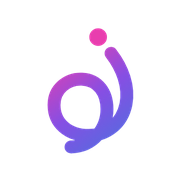
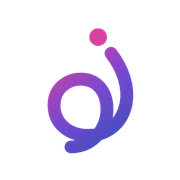
Consistent design system across all pages: grounded palette with cobalt anchor, About on the system, shared header, no sideways scroll
Claude-Session: https://claude.ai/code/session_015vF3fkpLrtYDnGXEysZJYn

Changed region(s): [[0.3611, 0.4722, 0.75, 0.8611]]

diff --git a/about.html b/about.html
@@ -5,46 +5,50 @@
   <meta name="robots" content="noindex, nofollow">
   <meta name="viewport" content="width=device-width, initial-scale=1">
   <title>About — June Yang</title>
-  <link rel="icon" href="favicon.ico?v=5" sizes="any">
-  <link rel="icon" type="image/svg+xml" href="favicon.svg?v=5">
-  <link rel="icon" type="image/png" href="favicon-32.png?v=5">
-  <link rel="apple-touch-icon" href="apple-touch-icon.png?v=4">
+  <link rel="icon" href="favicon.ico?v=6" sizes="any">
+  <link rel="icon" type="image/svg+xml" href="favicon.svg?v=6">
+  <link rel="icon" type="image/png" href="favicon-32.png?v=6">
+  <link rel="apple-touch-icon" href="apple-touch-icon.png?v=5">
   <meta name="description" content="June Yang is a junior at Carnegie Mellon studying Communication Design and Human-Computer Interaction, working across UX design, product design and brand marketing.">
   <link rel="preconnect" href="https://fonts.googleapis.com">
   <link rel="preconnect" href="https://fonts.gstatic.com" crossorigin>
-  <link href="https://fonts.googleapis.com/css2?family=Hedvig+Letters+Serif:opsz@12..24&family=Inter:ital,wght@0,400;0,500;1,400&display=swap" rel="stylesheet">
-  <link rel="stylesheet" href="home.css?v=h9m">
+  <link href="https://fonts.googleapis.com/css2?family=DM+Mono:wght@400;500&family=Figtree:wght@400;500;600&display=swap" rel="stylesheet">
+  <link rel="stylesheet" href="ds.css?v=18">
+  <link rel="stylesheet" href="home.css?v=ds32">
   <style>
-    /* About page: same header, type and spacing tokens as the home page (home.css) */
+    /* About page: same header, type and spacing tokens as the home page (ds.css + home.css) */
     .about { margin-top: 200px; padding-left: 3px; display: grid; grid-template-columns: 520px minmax(0, 680px); justify-content: center; gap: 96px; align-items: center; }
+    .about .intro__title .ds-gradient { display: inline; }   /* keep "June" on the same line */
     .about__photo { width: 100%; height: auto; border-radius: 16px; display: block; order: -1; }
-    .about__lede { margin-top: 13px; font-size: 18px; line-height: 28px; color: var(--black-60); }
+    .about__lede { margin-top: 13px; font-size: 18px; line-height: 28px; color: var(--muted); }
     .about__body { margin-top: 56px; display: flex; flex-direction: column; gap: 24px; }
-    .about__body p { font-size: 18px; line-height: 27px; }
+    .about__body p { font-size: 18px; line-height: 27px; color: var(--ink-2); text-wrap: pretty; }
     .exp, .connect { max-width: 1296px; margin-left: auto; margin-right: auto; }  /* same width as the photo + intro block above */
     .exp { margin-top: 160px; }
-    .exp__title { font-family: var(--font-serif); font-size: 26px; line-height: 1.3; }   /* same size as section headings on the project pages */
-    .exp__list { margin: 32px 0 0; padding: 0; list-style: none; border-top: 1px solid #e6e6e6; }
-    .exp__item { display: grid; grid-template-columns: 380px 1fr auto; align-items: center; gap: 24px; padding: 24px 0; border-bottom: 1px solid #e6e6e6; }
-    .exp__org { font-size: 20px; line-height: 1.3; }
-    .exp__org span { display: block; margin-top: 6px; font-size: 15px; line-height: 1.3; color: var(--black-60); }
-    .exp__role { font-size: 18px; color: var(--black-60); }
-    .exp__date { font-size: 15px; padding: 6px 14px; border-radius: 999px; background: var(--surface); white-space: nowrap; }
+    .exp__title { font-family: var(--font-sans); font-size: 32px; line-height: 1.2; font-weight: 600; letter-spacing: -0.02em; color: var(--ink); }   /* same as section headings on the project pages */
+    .exp__list { margin: 32px 0 0; padding: 0; list-style: none; border-top: 1px solid var(--line); }
+    .exp__item { display: grid; grid-template-columns: 380px 1fr auto; align-items: center; gap: 24px; padding: 24px 0; border-bottom: 1px solid var(--line); }
+    .exp__org { font-size: 20px; line-height: 1.3; font-weight: 600; letter-spacing: -0.01em; color: var(--ink); }
+    .exp__org span { display: block; margin-top: 6px; font-size: 15px; line-height: 1.3; font-weight: 400; letter-spacing: 0; color: var(--muted); }
+    .exp__role { font-size: 18px; color: var(--ink-2); }
+    .exp__date { font-family: var(--font-mono); font-size: 13px; letter-spacing: .06em; text-transform: uppercase; color: var(--muted); padding: 7px 13px 6px; border-radius: 999px; background: var(--surface); white-space: nowrap; }
     @media (max-width: 760px) {
       .exp { margin-top: 96px; }
       .exp__title { font-size: 26px; }
+      .exp__date { font-size: 11px; }
       .exp__item { grid-template-columns: 1fr; gap: 4px; }
         .exp__org { font-size: 18px; }
       .exp__role { font-size: 16px; }
       .exp__date { justify-self: start; font-size: 14px; margin-top: 4px; }
     }
     .connect { margin-top: 160px; }
-    .connect__list { margin: 32px 0 0; padding: 0; list-style: none; border-top: 1px solid #e6e6e6; }
-    .connect__item { border-bottom: 1px solid #e6e6e6; }
-    .connect__item a { display: grid; grid-template-columns: 380px 1fr auto; gap: 24px; align-items: center; padding: 24px 0; font-size: 20px; }
-    .connect__item a span:nth-child(2) { font-size: 18px; color: var(--black-60); }
-    .connect__item a span:last-child { font-size: 20px; color: var(--black-60); transition: transform .2s; }
-    .connect__item a:hover span:last-child { transform: translateX(4px); color: var(--black); }
+    .connect__list { margin: 32px 0 0; padding: 0; list-style: none; border-top: 1px solid var(--line); }
+    .connect__item { border-bottom: 1px solid var(--line); }
+    .connect__item a { display: grid; grid-template-columns: 380px 1fr auto; gap: 24px; align-items: center; padding: 24px 0; font-size: 20px; font-weight: 600; letter-spacing: -0.01em; color: var(--ink); text-decoration: none; }
+    .connect__item a span:nth-child(2) { font-size: 18px; font-weight: 400; letter-spacing: 0; color: var(--ink-2); }
+    .connect__item a span:last-child { font-size: 20px; font-weight: 400; color: var(--muted); transition: transform .2s, color .2s; }
+    .connect__item a:hover span:last-child { transform: translate(3px, -3px); color: var(--link); }
+    .connect__item a:hover span:nth-child(2) { color: var(--link); }
     @media (max-width: 760px) {
       .connect { margin-top: 96px; }
       .connect__item a { grid-template-columns: 1fr auto; gap: 4px 16px; font-size: 18px; }
@@ -73,7 +77,7 @@
 </head>
 <body>
   <header class="site-header">
-    <a class="site-logo" href="index.html"><img src="logo-j.svg?v=2" width="24" height="34" alt="June Yang (home)"></a>
+    <a class="site-logo" href="index.html"><img src="logo-j.svg?v=3" width="24" height="34" alt="June Yang (home)"></a>
     <nav class="site-nav" aria-label="Main">
       <a href="index.html">Work</a>
       <a href="about.html" aria-current="page">About</a>
@@ -83,7 +87,7 @@
   <main class="home">
     <section class="about" aria-label="About June">
       <div>
-      <h1 class="intro__title">Hi, I’m June!</h1>
+      <h1 class="intro__title">Hi, I’m <span class="ds-gradient">June</span>!</h1>
       <p class="about__lede">I love creating things that bring joy to people :)</p>
       <div class="about__body">
         <p>I’m interested in how design can solve real problems and make everyday experiences better. I especially enjoy putting myself in other people’s shoes, understanding what they need, and coming up with creative ways to make things easier and more enjoyable.</p>

diff --git a/ds.css b/ds.css
@@ -20,21 +20,23 @@
   /* Neutrals */
   --ink:        #161616;  /* headings, body */
   --ink-2:      #3d3d3d;  /* long-form body */
-  --muted:      #7a7a7a;  /* supporting text, labels */
+  --muted:      #6b6b6b;  /* supporting text, labels (5.3:1 on white) */
   --line:       #dadada;  /* hairlines (a touch darker so card borders and dividers read clearly) */
-  --surface:    #f5f5f7;  /* image wells, chips */
+  --surface:    #f4f4f4;  /* image panels, chips (matches the grey baked into exported figures) */
   --bg:         #ffffff;
 
   /* Roles */
-  --link:       var(--pink-600);
-  --link-hover: var(--pink-700);
+  --anchor:     #33449e;  /* deep cobalt: the grounding color for links and active states (8.5:1) */
+  --anchor-700: #283680;
+  --link:       var(--anchor);
+  --link-hover: var(--anchor-700);
   --tag-bg:     var(--pink-50);
   --tag-fg:     var(--pink-600);
   --focus:      var(--pink-500);
   /* headline gradient: clean pink into violet and blue */
-  --gradient:   linear-gradient(90deg, #e83eae, #864fe3 52%, #536cdf);   /* between the original and the lighter pass: depth without glare; pink 3.7:1 for large text */
+  --gradient:   linear-gradient(90deg, #d9419f, #7448cf 52%, #3b4fb8);   /* grounded: calmer pink and violet into a deeper cobalt; pink 4.0:1 for large text */
   /* calmer version for hover states like project titles: lighter and clean, not vivid (≥3.6:1) */
-  --gradient-title: linear-gradient(90deg, #d655b0, #8b66e6 52%, #6380e6);
+  --gradient-title: linear-gradient(90deg, #d4529f, #7d57d0 52%, #4a5ebf);   /* card titles on hover: the grounded gradient, a step lighter */
   /* light pastel version for the selected-card ring */
   --gradient-ring: linear-gradient(90deg, #ef9ad6, #b79cf6 52%, #97aef5);
   /* soft pastel version for quiet details like tag outlines */
@@ -56,7 +58,7 @@
 /* Small monospace section label, e.g. EXPERIENCE / SELECTED WORK */
 .ds-label {
   font-family: var(--font-mono);
-  font-size: 14px;
+  font-size: 13px;
   font-weight: 400;
   letter-spacing: 0.08em;
   text-transform: uppercase;
@@ -77,3 +79,5 @@
 .cursor-circle.is-hover.is-press::before { transform: scale(2.2); transition-duration: .15s; }
 @media (prefers-reduced-motion: reduce) { .cursor-circle::before { transition: opacity .2s ease; } }
 
+/* the header's white band is intentionally wider than the page; never let it cause sideways scrolling */
+html, body { overflow-x: clip; }

diff --git a/cursor-arrow.js b/cursor-arrow.js
@@ -12,7 +12,7 @@
   el.innerHTML =
     `<svg width="${W}" height="${H}" viewBox="-74.7 38.4 279.5 212.7" overflow="visible">` +
     `<defs><linearGradient id="arrow-cursor-g" gradientUnits="userSpaceOnUse" x1="-74.7" x2="204.8" y1="0" y2="0">` +
-    `<stop offset="0" stop-color="#e83eae"/><stop offset=".52" stop-color="#864fe3"/><stop offset="1" stop-color="#536cdf"/></linearGradient></defs>` +
+    `<stop offset="0" stop-color="#d9419f"/><stop offset=".52" stop-color="#7448cf"/><stop offset="1" stop-color="#3b4fb8"/></linearGradient></defs>` +
     `<g fill="none" stroke="url(#arrow-cursor-g)" stroke-width="15.6" stroke-linecap="round" stroke-linejoin="round">` +
     `<path class="ac-body" pathLength="1" d="M-60.7 97.2 C-60.3 100.4 -59.7 110.4 -58.4 116.9 C-57.1 123.3 -55.3 129.8 -53.2 136.0 C-51.0 142.2 -48.6 148.4 -45.6 154.2 C-42.7 160.0 -39.4 165.8 -35.5 170.9 C-31.5 176.0 -26.9 180.7 -21.9 184.7 C-16.8 188.7 -11.1 192.1 -5.3 195.0 C0.5 197.9 6.8 200.2 13.1 201.9 C19.3 203.7 25.9 204.9 32.4 205.4 C38.8 205.8 45.5 205.7 51.9 204.9 C58.3 204.1 64.8 202.5 70.9 200.4 C77.1 198.3 83.2 195.6 88.8 192.4 C94.5 189.2 100.0 185.4 104.8 181.1 C109.6 176.8 114.1 171.9 117.8 166.7 C121.5 161.4 124.8 155.6 126.9 149.6 C129.1 143.6 130.4 137.2 130.8 130.8 C131.2 124.5 130.6 117.8 129.3 111.5 C128.1 105.2 126.0 98.8 123.3 93.0 C120.5 87.2 117.0 81.6 112.9 76.7 C108.8 71.8 103.8 67.4 98.5 63.8 C93.3 60.3 87.2 57.4 81.2 55.5 C75.1 53.6 68.5 52.5 62.2 52.4 C55.8 52.3 49.2 53.1 43.0 54.7 C36.9 56.4 30.7 59.0 25.4 62.3 C20.0 65.6 14.9 69.9 10.7 74.7 C6.4 79.4 2.9 85.1 0.0 90.8 C-2.8 96.6 -5.0 102.9 -6.4 109.2 C-7.7 115.5 -8.4 122.1 -8.2 128.5 C-8.1 134.9 -7.2 141.6 -5.5 147.8 C-3.9 154.0 -1.6 160.3 1.4 165.9 C4.4 171.6 8.3 176.9 12.6 181.8 C16.9 186.6 21.9 190.9 27.1 194.9 C32.3 198.9 37.9 202.5 43.6 205.7 C49.3 209.0 55.3 211.9 61.4 214.4 C67.5 216.8 73.7 219.0 80.1 220.6 C86.4 222.1 93.0 223.2 99.5 223.6 C106.0 224.1 112.6 223.8 119.0 223.0 C125.5 222.2 131.9 220.6 138.2 218.8 C144.5 216.9 150.7 214.5 156.7 211.8 C162.7 209.1 168.6 206.0 174.2 202.6 C179.9 199.2 188.0 193.4 190.8 191.6"/><path class="ac-head" pathLength="1" d="M152.8 179.6 L190.8 191.6 L180.3 237.1"/></g></svg>`;
   // outside <body> so the page's zoom doesn't scale it

diff --git a/skyn/index.html b/skyn/index.html
@@ -5,17 +5,17 @@
   <meta name="robots" content="noindex, nofollow">
   <meta name="viewport" content="width=device-width, initial-scale=1">
   <title>skyn — June Yang</title>
-  <link rel="icon" href="../favicon.ico?v=5" sizes="any">
-  <link rel="icon" type="image/svg+xml" href="../favicon.svg?v=5">
-  <link rel="icon" type="image/png" href="../favicon-32.png?v=5">
-  <link rel="apple-touch-icon" href="../apple-touch-icon.png?v=4">
+  <link rel="icon" href="../favicon.ico?v=6" sizes="any">
+  <link rel="icon" type="image/svg+xml" href="../favicon.svg?v=6">
+  <link rel="icon" type="image/png" href="../favicon-32.png?v=6">
+  <link rel="apple-touch-icon" href="../apple-touch-icon.png?v=5">
   <meta name="description" content="skyn is a personalized skincare app that uses AI-powered skin analysis to help users find the right products, build daily routines, and track changes in their skin over time.">
   <link rel="preconnect" href="https://fonts.googleapis.com">
   <link rel="preconnect" href="https://fonts.gstatic.com" crossorigin>
   <link href="https://fonts.googleapis.com/css2?family=DM+Mono:wght@400;500&family=Figtree:wght@400;500;600&display=swap" rel="stylesheet">
-  <link rel="stylesheet" href="../ds.css?v=15">
+  <link rel="stylesheet" href="../ds.css?v=18">
   <link rel="stylesheet" href="styles.css?v=hm4m">
-  <link rel="stylesheet" href="../case-ds.css?v=25">
+  <link rel="stylesheet" href="../case-ds.css?v=28">
   <script>
     // Scale the 1920px design to the window width so it matches the Figma frame.
     (function () {
@@ -30,9 +30,9 @@
 </head>
 <body>
   <header class="site-header">
-    <a class="site-logo" href="../index.html"><img src="../logo-j.svg?v=2" width="24" height="34" alt="June Yang (home)"></a>
+    <a class="site-logo" href="../index.html"><img src="../logo-j.svg?v=3" width="24" height="34" alt="June Yang (home)"></a>
     <nav class="site-nav" aria-label="Main">
-      <a href="../index.html">Work</a>
+      <a href="../index.html" aria-current="true">Work</a>
       <a href="../about.html">About</a>
     </nav>
   </header>

diff --git a/arencia/index.html b/arencia/index.html
@@ -5,17 +5,17 @@
   <meta name="robots" content="noindex, nofollow">
   <meta name="viewport" content="width=device-width, initial-scale=1">
   <title>Arencia — June Yang</title>
-  <link rel="icon" href="../favicon.ico?v=5" sizes="any">
-  <link rel="icon" type="image/svg+xml" href="../favicon.svg?v=5">
-  <link rel="icon" type="image/png" href="../favicon-32.png?v=5">
-  <link rel="apple-touch-icon" href="../apple-touch-icon.png?v=4">
+  <link rel="icon" href="../favicon.ico?v=6" sizes="any">
+  <link rel="icon" type="image/svg+xml" href="../favicon.svg?v=6">
+  <link rel="icon" type="image/png" href="../favicon-32.png?v=6">
+  <link rel="apple-touch-icon" href="../apple-touch-icon.png?v=5">
   <meta name="description" content="Creative direction for Arencia’s Instagram rebrand ahead of its U.S. launch with Sephora x Olive Young: a 12-post grid and a short-form video.">
   <link rel="preconnect" href="https://fonts.googleapis.com">
   <link rel="preconnect" href="https://fonts.gstatic.com" crossorigin>
   <link href="https://fonts.googleapis.com/css2?family=DM+Mono:wght@400;500&family=Figtree:wght@400;500;600&display=swap" rel="stylesheet">
-  <link rel="stylesheet" href="../ds.css?v=15">
+  <link rel="stylesheet" href="../ds.css?v=18">
   <link rel="stylesheet" href="styles.css?v=17n">
-  <link rel="stylesheet" href="../case-ds.css?v=25">
+  <link rel="stylesheet" href="../case-ds.css?v=28">
   <script>
     // Scale the 1920px design to the window width, same as the other case studies.
     (function () {
@@ -30,9 +30,9 @@
 </head>
 <body>
   <header class="site-header">
-    <a class="site-logo" href="../index.html"><img src="../logo-j.svg?v=2" width="24" height="34" alt="June Yang (home)"></a>
+    <a class="site-logo" href="../index.html"><img src="../logo-j.svg?v=3" width="24" height="34" alt="June Yang (home)"></a>
     <nav class="site-nav" aria-label="Main">
-      <a href="../index.html">Work</a>
+      <a href="../index.html" aria-current="true">Work</a>
       <a href="../about.html">About</a>
     </nav>
   </header>

diff --git a/bark/index.html b/bark/index.html
@@ -5,17 +5,17 @@
   <meta name="robots" content="noindex, nofollow">
   <meta name="viewport" content="width=device-width, initial-scale=1">
   <title>Bark — June Yang</title>
-  <link rel="icon" href="../favicon.ico?v=5" sizes="any">
-  <link rel="icon" type="image/svg+xml" href="../favicon.svg?v=5">
-  <link rel="icon" type="image/png" href="../favicon-32.png?v=5">
-  <link rel="apple-touch-icon" href="../apple-touch-icon.png?v=4">
+  <link rel="icon" href="../favicon.ico?v=6" sizes="any">
+  <link rel="icon" type="image/svg+xml" href="../favicon.svg?v=6">
+  <link rel="icon" type="image/png" href="../favicon-32.png?v=6">
+  <link rel="apple-touch-icon" href="../apple-touch-icon.png?v=5">
   <meta name="description" content="Bark is an AI assistant for the Carnegie Mellon community, built with ScottyLabs, that answers questions about dining, directions, courses and campus life.">
   <link rel="preconnect" href="https://fonts.googleapis.com">
   <link rel="preconnect" href="https://fonts.gstatic.com" crossorigin>
   <link href="https://fonts.googleapis.com/css2?family=DM+Mono:wght@400;500&family=Figtree:wght@400;500;600&display=swap" rel="stylesheet">
-  <link rel="stylesheet" href="../ds.css?v=15">
+  <link rel="stylesheet" href="../ds.css?v=18">
   <link rel="stylesheet" href="styles.css?v=5n">
-  <link rel="stylesheet" href="../case-ds.css?v=25">
+  <link rel="stylesheet" href="../case-ds.css?v=28">
   <script>
     // Scale the 1920px design to the window width, same as the skyn page.
     (function () {
@@ -30,9 +30,9 @@
 </head>
 <body>
   <header class="site-header">
-    <a class="site-logo" href="../index.html"><img src="../logo-j.svg?v=2" width="24" height="34" alt="June Yang (home)"></a>
+    <a class="site-logo" href="../index.html"><img src="../logo-j.svg?v=3" width="24" height="34" alt="June Yang (home)"></a>
     <nav class="site-nav" aria-label="Main">
-      <a href="../index.html">Work</a>
+      <a href="../index.html" aria-current="true">Work</a>
       <a href="../about.html">About</a>
     </nav>
   </header>

diff --git a/design-hero/index.html b/design-hero/index.html
@@ -5,17 +5,17 @@
   <meta name="robots" content="noindex, nofollow">
   <meta name="viewport" content="width=device-width, initial-scale=1">
   <title>Design Hero — June Yang</title>
-  <link rel="icon" href="../favicon.ico?v=5" sizes="any">
-  <link rel="icon" type="image/svg+xml" href="../favicon.svg?v=5">
-  <link rel="icon" type="image/png" href="../favicon-32.png?v=5">
-  <link rel="apple-touch-icon" href="../apple-touch-icon.png?v=4">
+  <link rel="icon" href="../favicon.ico?v=6" sizes="any">
+  <link rel="icon" type="image/svg+xml" href="../favicon.svg?v=6">
+  <link rel="icon" type="image/png" href="../favicon-32.png?v=6">
+  <link rel="apple-touch-icon" href="../apple-touch-icon.png?v=5">
   <meta name="description" content="Design Hero: a typographic poster, a 16-page booklet, and a motion piece inspired by graphic designer Na Kim.">
   <link rel="preconnect" href="https://fonts.googleapis.com">
   <link rel="preconnect" href="https://fonts.gstatic.com" crossorigin>
   <link href="https://fonts.googleapis.com/css2?family=DM+Mono:wght@400;500&family=Figtree:wght@400;500;600&display=swap" rel="stylesheet">
-  <link rel="stylesheet" href="../ds.css?v=15">
+  <link rel="stylesheet" href="../ds.css?v=18">
   <link rel="stylesheet" href="styles.css?v=10m">
-  <link rel="stylesheet" href="../case-ds.css?v=25">
+  <link rel="stylesheet" href="../case-ds.css?v=28">
   <script>
     // Scale the 1920px design to the window width, same as the other case studies.
     (function () {
@@ -30,9 +30,9 @@
 </head>
 <body>
   <header class="site-header">
-    <a class="site-logo" href="../index.html"><img src="../logo-j.svg?v=2" width="24" height="34" alt="June Yang (home)"></a>
+    <a class="site-logo" href="../index.html"><img src="../logo-j.svg?v=3" width="24" height="34" alt="June Yang (home)"></a>
     <nav class="site-nav" aria-label="Main">
-      <a href="../index.html">Work</a>
+      <a href="../index.html" aria-current="true">Work</a>
       <a href="../about.html">About</a>
     </nav>
   </header>

diff --git a/doodle-lab.html b/doodle-lab.html
@@ -157,7 +157,7 @@
 (() => {
   const NS = 'http://www.w3.org/2000/svg';
   let uid = 0;
-  const STOPS = [['0', '#e83eae'], ['.52', '#864fe3'], ['1', '#536cdf']];
+  const STOPS = [['0', '#d9419f'], ['.52', '#7448cf'], ['1', '#3b4fb8']];
   function gradDef(svg, x1, x2) {
     const id = 'g' + (++uid);
     const defs = document.createElementNS(NS, 'defs');
@@ -315,7 +315,7 @@
   }
   function thought(el) {
     const id = 'tb' + (++uid);
-    el.innerHTML = `<svg viewBox="4 8 92 88" overflow="visible"><defs><linearGradient id="${id}" gradientUnits="userSpaceOnUse" x1="8" x2="92"><stop offset="0" stop-color="#e83eae"/><stop offset=".52" stop-color="#864fe3"/><stop offset="1" stop-color="#536cdf"/></linearGradient></defs><path d="M87.7 36.8 A17.1 17.1 0 0 1 75.7 58.1 A22.3 22.3 0 0 1 44.0 61.3 A18.7 18.7 0 0 1 24.3 43.2 A17.1 17.1 0 0 1 36.3 21.9 A22.3 22.3 0 0 1 68.0 18.7 A18.7 18.7 0 0 1 87.7 36.8 Z" fill="none" stroke="url(#${id})" stroke-width="5.4" stroke-linejoin="round"/><circle cx="25" cy="77" r="4.6" fill="url(#${id})"/><circle cx="13" cy="90" r="2.9" fill="url(#${id})"/></svg>`;
+    el.innerHTML = `<svg viewBox="4 8 92 88" overflow="visible"><defs><linearGradient id="${id}" gradientUnits="userSpaceOnUse" x1="8" x2="92"><stop offset="0" stop-color="#d9419f"/><stop offset=".52" stop-color="#7448cf"/><stop offset="1" stop-color="#3b4fb8"/></linearGradient></defs><path d="M87.7 36.8 A17.1 17.1 0 0 1 75.7 58.1 A22.3 22.3 0 0 1 44.0 61.3 A18.7 18.7 0 0 1 24.3 43.2 A17.1 17.1 0 0 1 36.3 21.9 A22.3 22.3 0 0 1 68.0 18.7 A18.7 18.7 0 0 1 87.7 36.8 Z" fill="none" stroke="url(#${id})" stroke-width="5.4" stroke-linejoin="round"/><circle cx="25" cy="77" r="4.6" fill="url(#${id})"/><circle cx="13" cy="90" r="2.9" fill="url(#${id})"/></svg>`;
   }
   const TILE_KINDS = { grid: ['mini grid · ripple', tileGrid], one: ['single tile · tilt', tileOne], four: ['four tiles · settle', tileFour], thought: ['thought bubble', thought] };
   const tileGridEl = document.getElementById('tiles');

diff --git a/index.html b/index.html
@@ -5,16 +5,16 @@
   <meta name="robots" content="noindex, nofollow">
   <meta name="viewport" content="width=device-width, initial-scale=1">
   <title>June Yang</title>
-  <link rel="icon" href="favicon.ico?v=5" sizes="any">
-  <link rel="icon" type="image/svg+xml" href="favicon.svg?v=5">
-  <link rel="icon" type="image/png" href="favicon-32.png?v=5">
-  <link rel="apple-touch-icon" href="apple-touch-icon.png?v=4">
+  <link rel="icon" href="favicon.ico?v=6" sizes="any">
+  <link rel="icon" type="image/svg+xml" href="favicon.svg?v=6">
+  <link rel="icon" type="image/png" href="favicon-32.png?v=6">
+  <link rel="apple-touch-icon" href="apple-touch-icon.png?v=5">
   <meta name="description" content="June Yang is a design engineer with a love of building intuitive interactions and impactful experiences. Currently studying Design &amp; HCI at Carnegie Mellon.">
   <link rel="preconnect" href="https://fonts.googleapis.com">
   <link rel="preconnect" href="https://fonts.gstatic.com" crossorigin>
   <link href="https://fonts.googleapis.com/css2?family=DM+Mono:wght@400;500&family=Figtree:wght@400;500;600&display=swap" rel="stylesheet">
-  <link rel="stylesheet" href="ds.css?v=15">
-  <link rel="stylesheet" href="home.css?v=ds31">
+  <link rel="stylesheet" href="ds.css?v=18">
+  <link rel="stylesheet" href="home.css?v=ds32">
   <script>
     // Scale the 1920px design to the window width so it matches the Figma frame.
     (function () {
@@ -30,7 +30,7 @@
 <body>
   <canvas class="hero-grid" data-mode="squares" data-palette="shift" aria-hidden="true"></canvas>
   <header class="site-header">
-    <a class="site-logo" href="index.html"><img src="logo-j.svg?v=2" width="24" height="34" alt="June Yang (home)"></a>
+    <a class="site-logo" href="index.html"><img src="logo-j.svg?v=3" width="24" height="34" alt="June Yang (home)"></a>
     <nav class="site-nav" aria-label="Main">
       <a href="#work" aria-current="page">Work</a>
       <a href="about.html">About</a>

diff --git a/case-ds.css b/case-ds.css
@@ -44,7 +44,7 @@ body { background: var(--bg); color: var(--ink); }
   text-transform: uppercase;
 }
 .sidebar { gap: 16px; }
-.sidebar a.is-active { color: var(--pink-600); }
+.sidebar a.is-active { color: var(--anchor); }
 .divider::before, .divider::after { border-top-color: var(--line); }
 
 /* Text cards: a neutral hairline by default. The gradient outline is kept for the
@@ -190,3 +190,11 @@ body { background: var(--bg); color: var(--ink); }
   .squiggles li { font-size: 16px; display: grid; grid-template-columns: 26px 1fr; column-gap: 12px; }
   .thought-mark { width: 24px; height: 23px; margin: 1px 0 0; }
 }
+
+/* Shared header: identical to the home and about pages */
+.site-logo img { height: 42px; width: auto; }
+@media (max-width: 640px) { .site-logo img { height: 34px; } }
+.site-nav { font-weight: 500; }
+.site-nav a { color: var(--muted); transition: color .2s ease; }
+.site-nav a[aria-current] { color: var(--ink); }   /* "Work" stays active on project pages */
+.site-nav a:hover { color: var(--link); }

diff --git a/thought-bubble.js b/thought-bubble.js
@@ -13,7 +13,7 @@
     svg.setAttribute("viewBox", "4 8 92 88");
     svg.setAttribute("aria-hidden", "true");
     let html = `<defs><linearGradient id="${id}" gradientUnits="userSpaceOnUse" x1="8" x2="92" y1="0" y2="0">` +
-      `<stop offset="0" stop-color="#e83eae"/><stop offset=".52" stop-color="#864fe3"/><stop offset="1" stop-color="#536cdf"/></linearGradient></defs>` +
+      `<stop offset="0" stop-color="#d9419f"/><stop offset=".52" stop-color="#7448cf"/><stop offset="1" stop-color="#3b4fb8"/></linearGradient></defs>` +
       `<g class="tb-cloud"><path d="${CLOUD}" pathLength="1" fill="none" stroke="url(#${id})" stroke-width="5.4" stroke-linejoin="round"/></g>`;
     DOTS.forEach(([x, y, r], i) => {
       html += `<circle class="tb-dot tb-dot--${i}" cx="${x}" cy="${y}" r="${r}" fill="url(#${id})" style="transform-origin:${x}px ${y}px"/>`;

diff --git a/curly-arrow.js b/curly-arrow.js
@@ -13,7 +13,7 @@
     svg.setAttribute("aria-hidden", "true");
     svg.innerHTML =
       `<defs><linearGradient id="${id}" gradientUnits="userSpaceOnUse" x1="-74.7" x2="204.8" y1="0" y2="0">` +
-      `<stop offset="0" stop-color="#e83eae"/><stop offset=".52" stop-color="#864fe3"/><stop offset="1" stop-color="#536cdf"/></linearGradient></defs>` +
+      `<stop offset="0" stop-color="#d9419f"/><stop offset=".52" stop-color="#7448cf"/><stop offset="1" stop-color="#3b4fb8"/></linearGradient></defs>` +
       `<path class="ca-body" d="${BODY}" pathLength="1"/><path class="ca-head" d="${HEAD}" pathLength="1"/>`;
     svg.querySelectorAll("path").forEach(p => {
       p.setAttribute("fill", "none"); p.setAttribute("stroke", `url(#${id})`);
